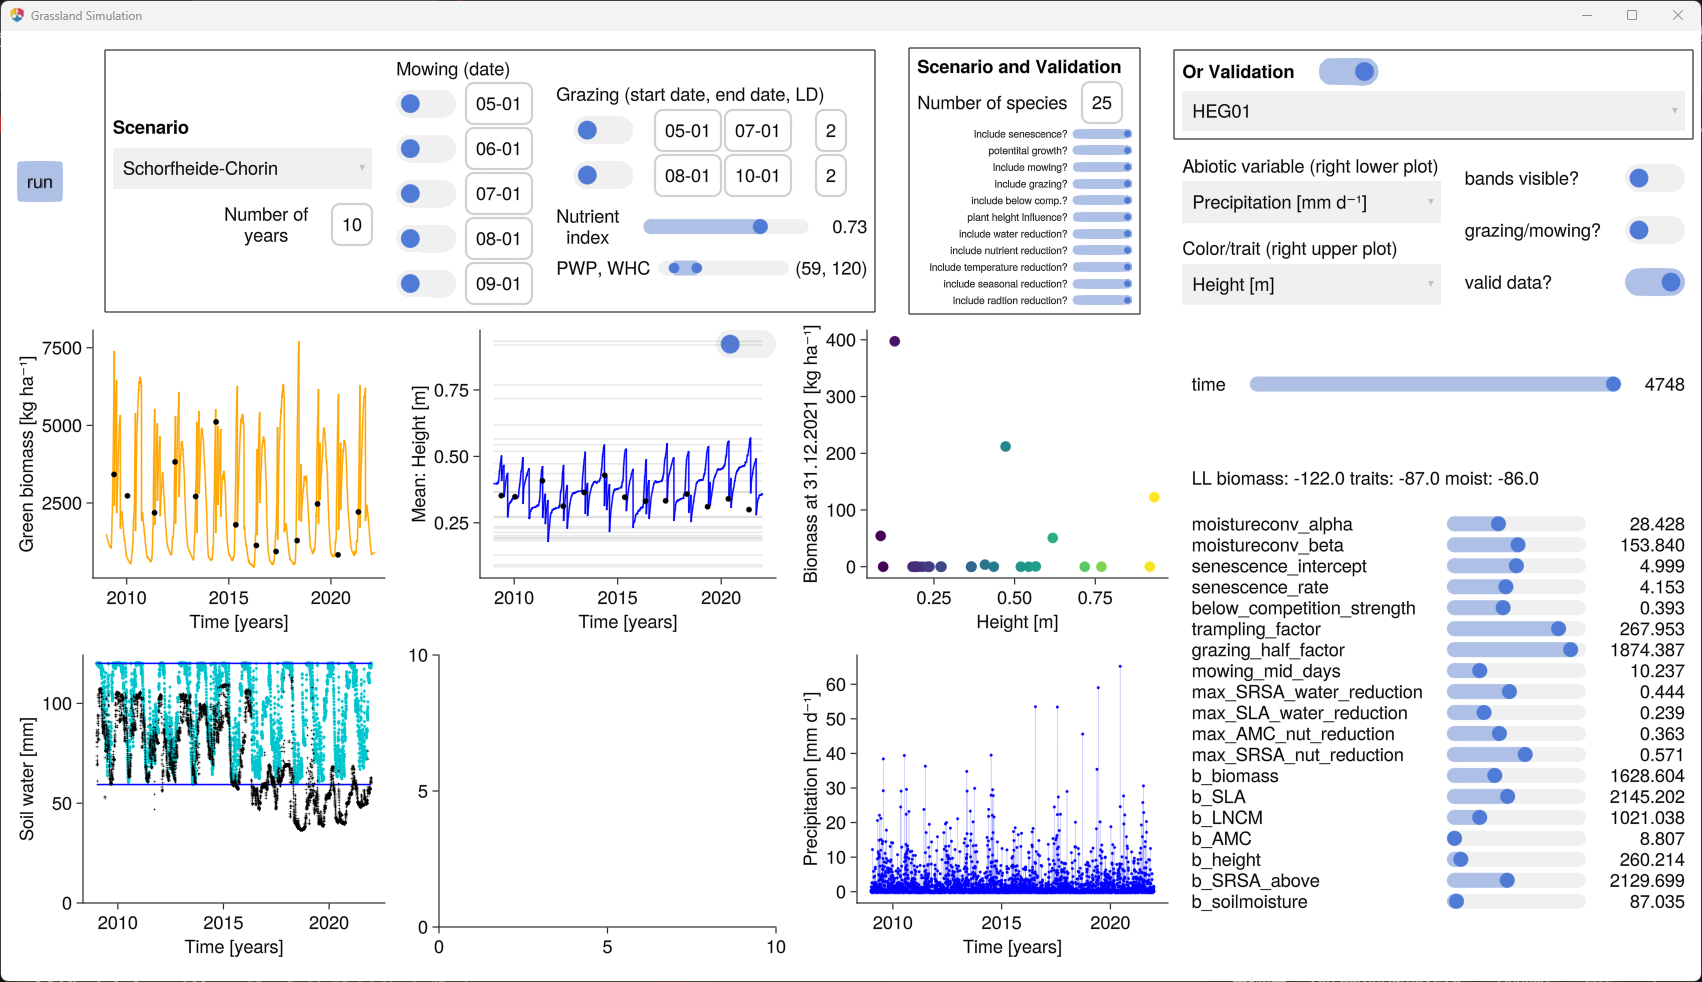
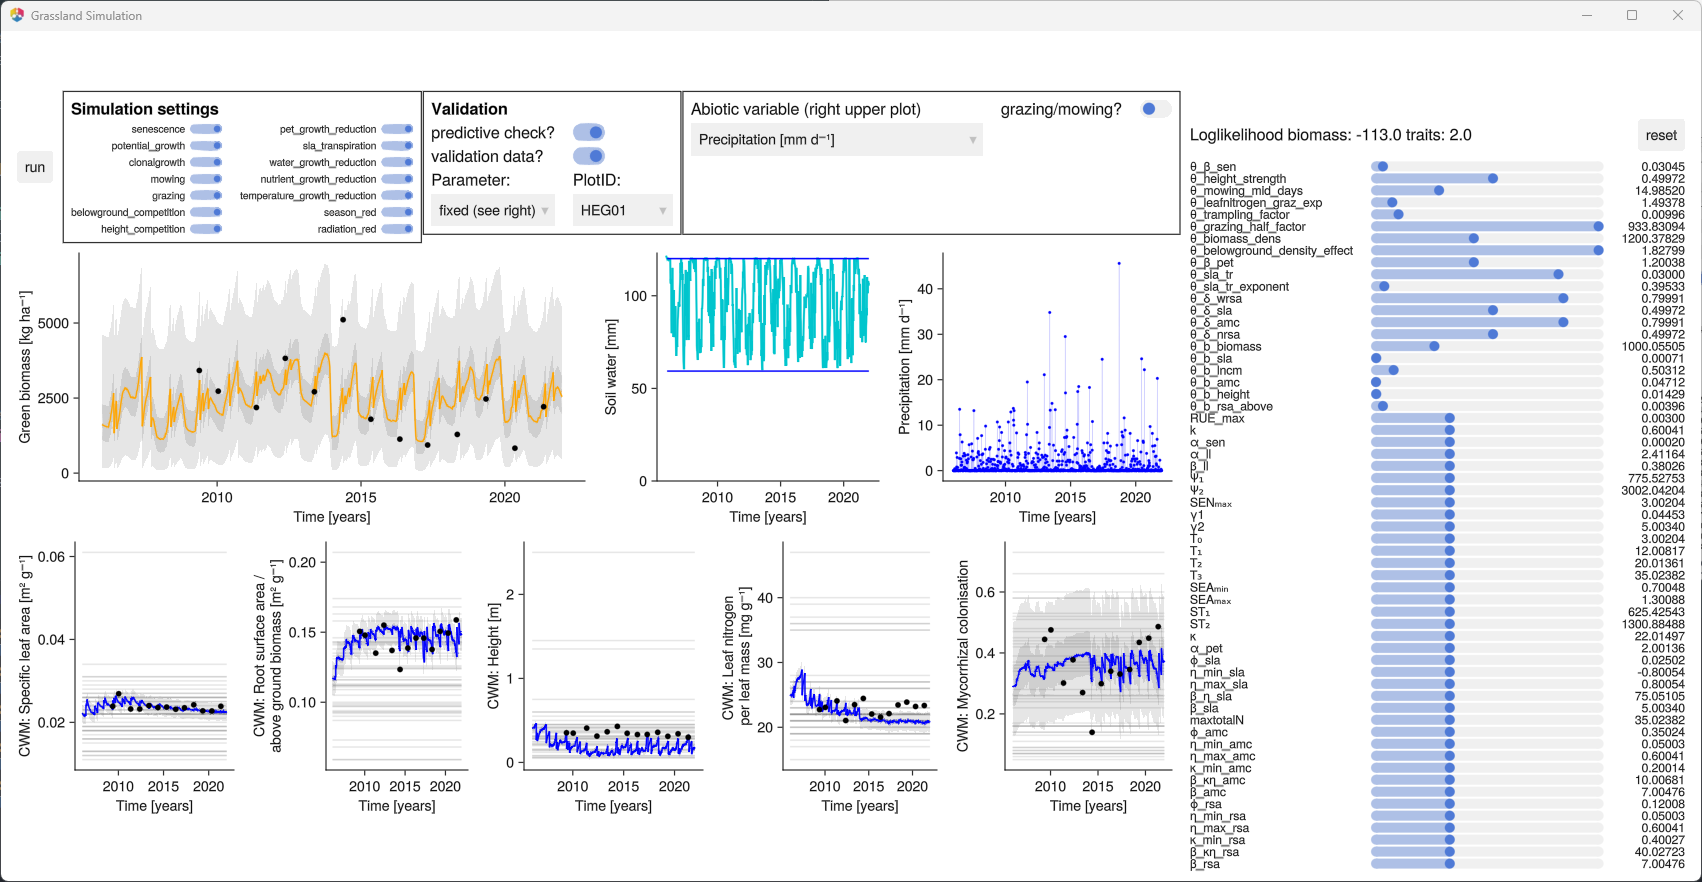
simplified documentation

Changed region(s): [[0.0, 0.0, 1.0, 1.0], [0.3425, 0.5816, 0.4048, 0.6429], [0.0, 0.0, 0.0934, 0.0306]]

diff --git a/README.md b/README.md
@@ -1,10 +1,55 @@
 # GrasslandTraitSim.jl
-[![][docs-dev-img]][docs-dev-url] [![SciML Code Style](https://img.shields.io/badge/code%20style-SciML-blue)](https://github.com/SciML/SciMLStyle) [![License: GPL v3](https://img.shields.io/badge/License-GPL%20v3-blue.svg)](https://www.gnu.org/licenses/gpl-3.0)
 
-[docs-dev-img]: https://img.shields.io/badge/docs-dev-blue.svg
-[docs-dev-url]: https://felixnoessler.github.io/GrasslandTraitSim.jl/dev/
+[![](https://img.shields.io/badge/docs-dev-blue.svg)](https://felixnoessler.github.io/GrasslandTraitSim.jl/dev/) [![SciML Code Style](https://img.shields.io/badge/code%20style-SciML-blue)](https://github.com/SciML/SciMLStyle) [![License: GPL v3](https://img.shields.io/badge/License-GPL%20v3-blue.svg)](https://www.gnu.org/licenses/gpl-3.0)
 
-![model overview](assets/screenshot.png)
+A Julia package for simulating grassland dynamics.
 
-[ECEM 2023 slides](assets/ECEM_2023_presentation.pdf)
+Author: [Felix Nößler](https://github.com/FelixNoessler/)\
+Licence: [GPL-3.0](https://github.com/FelixNoessler/GrasslandTraitSim.jl/blob/master/LICENSE)
 
+Please refer to the [documentation](https://felixnoessler.github.io/GrasslandTraitSim.jl/dev/) for more information about the grassland simulation model.
+
+Here are slides from presentations that show concepts of the models:
+- [ECEM 2023](assets/ECEM_2023_presentation.pdf)
+
+
+## Quick install
+
+1. [Download Julia](https://julialang.org/downloads/).
+
+2. Launch Julia and type
+
+```@julia
+import Pkg
+Pkg.add(url="https://github.com/felixnoessler/GrasslandTraitSim.jl")
+```
+
+!!! compat
+    The simulations were tested with `Julia` 1.10. I recommend using this version.
+
+For more information on installing unregistered packages, see [here](https://pkgdocs.julialang.org/v1/managing-packages/#Adding-unregistered-packages). Here, you can browse the different versions of `GrasslandTraitSim.jl`: [tags](https://github.com/FelixNoessler/GrasslandTraitSim.jl/tags). 
+
+## Run simulations
+
+```@julia
+import GrasslandTraitSim as sim
+import GrasslandTraitSim.Valid as valid
+
+input_obj = valid.validation_input(; plotID = "HEG01", nspecies = 25);
+p = sim.parameter(; input_obj)
+sol = sim.solve_prob(; input_obj, p);
+```
+
+## Start the GUI for checking the calibration results
+
+```@julia
+using GLMakie
+import GrasslandTraitSim as sim
+import GrasslandTraitSim.Valid as valid
+import GrasslandTraitSim.Vis as vis
+GLMakie.activate!()
+
+vis.dashboard(; sim, valid)
+```
+
+![](img/screenshot.png)

diff --git a/docs/src/parameter.md b/docs/src/parameter.md
@@ -70,21 +70,14 @@ the water holding capacity and the permanent wilting point (see [`input_WHC_PWP!
 
 
 
-## Scale and conversion parameter for calibration
+## Scale parameter for calibration
 
 | Parameter            | Description |
 | -------------------- | ----------- |
-| `moistureconv_alpha` |             |
-| `moistureconv_beta`  |             |
 | `b_biomass`          |             |
 | `b_sla`              |             |
 | `b_lncm`             |             |
 | `b_amc`              |             |
 | `b_height`           |             |
 | `b_rsa_above`        |             |
-| `b_var_sla`          |             |
-| `b_var_lncm`         |             |
-| `b_var_height`       |             |
-| `b_var_rsa_above`    |             |
-| `b_soilmoisture`     |             |
 
